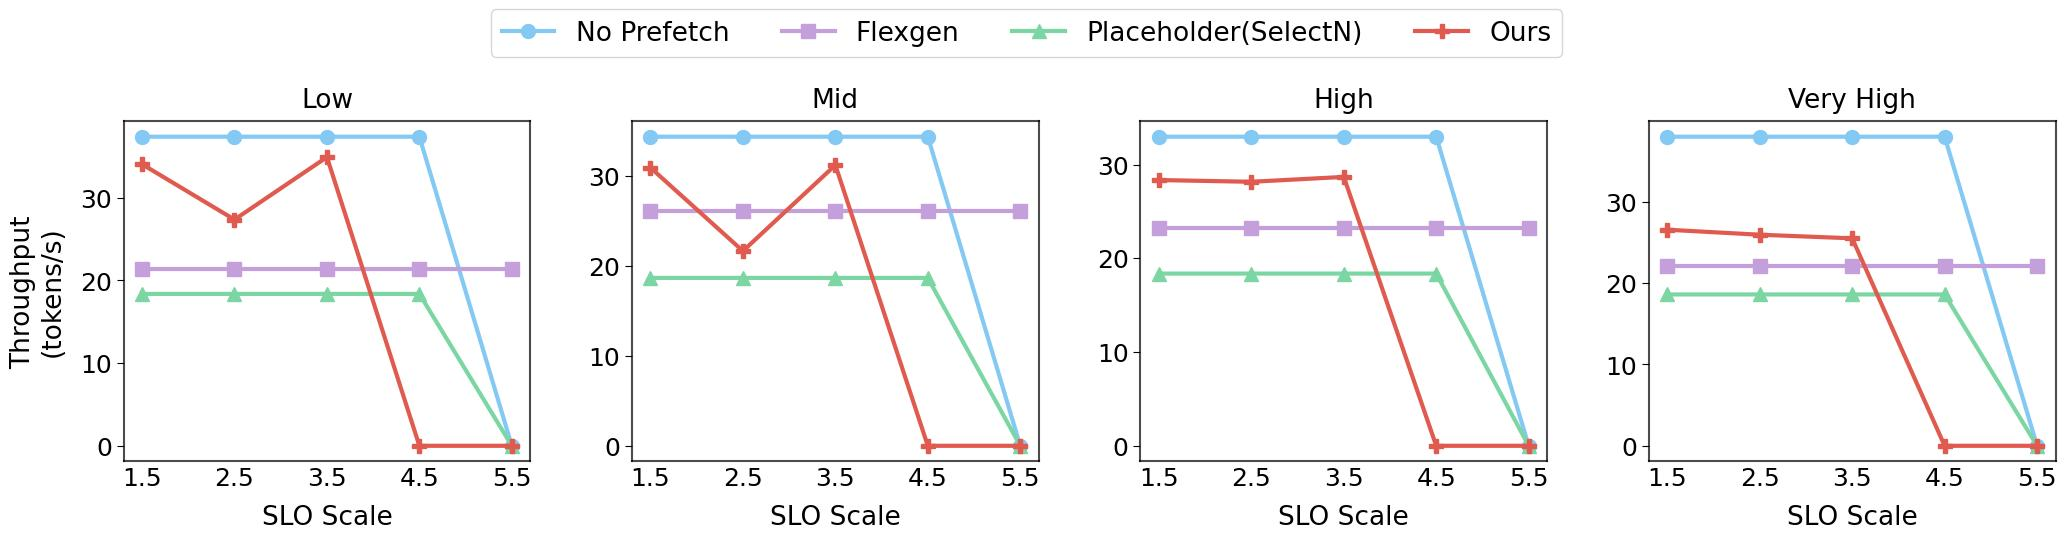
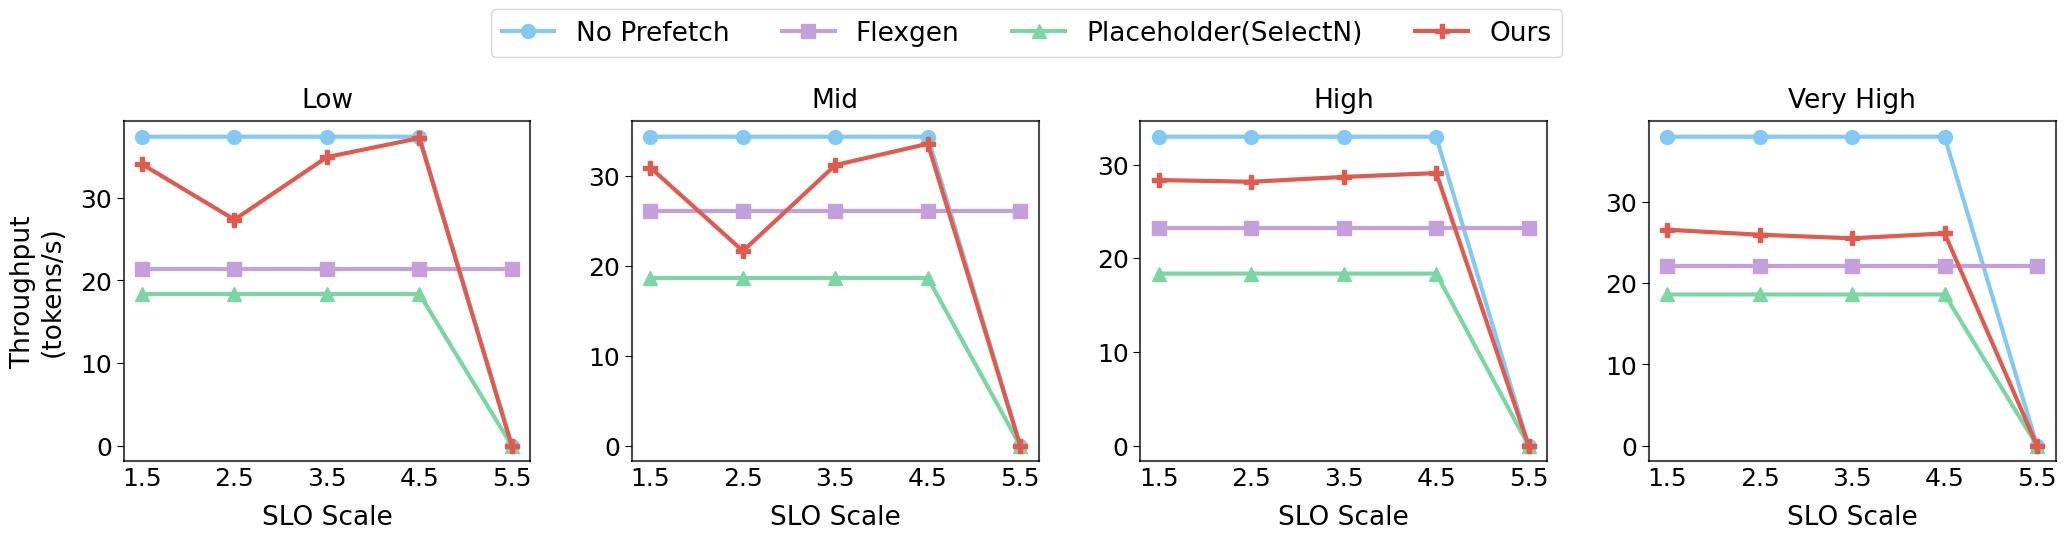
fix merge conflict

diff --git a/benchmark/data_analysis/draw_paper_graph/tpot_tbt_total_compare_graph.py b/benchmark/data_analysis/draw_paper_graph/tpot_tbt_total_compare_graph.py
@@ -10,25 +10,34 @@ trace_list   = ["both_static", "batch_dyn", "token_dyn", "both_dyn"]
 trace_labels = ["(a) Both Static", "(b) Batch dynamic", "(c) Token dynamic", "(d) Both dynamic"]
 
 method_list   = ["NoPrefetch", "Flexgen", "SelectN", 
-                #  "Ours"
+                 "Ours"
                  ]
-method_labels = ["No Prefetch", "Flexgen", "Placeholder(SelectN)", 
-                #  "Ours"
+method_labels = ["No Prefetch", "Flexgen", "SelectN", 
+                 "Ours"
                  ]
 
 metric_list   = ["low","mid","high", "veryhigh"]
 metric_labels = ["Low","Mid","High", "Very High"]
 
-slo_scales  = [10, 4.5, 4, 3.5, 3, 2.5, 2, 1.5, 1]
+slo_scales  = [10, 4.5, 3.5, 2.5, 1.5, 1]
 slo_labels  = [str(s) for s in slo_scales]
 
+# colors = [
+#     "#84C8F4",  # Soft Sky Blue
+#     "#C59FDB",  # Pastel Lavender
+#     "#7CD6A4",  # Mint Green
+#     "#63D0C2",  # Aqua Teal
+#     "#E05A4F",  # Coral Red
+# ]
+
 colors = [
-    "#84C8F4",  # Soft Sky Blue
-    "#C59FDB",  # Pastel Lavender
-    "#7CD6A4",  # Mint Green
-    # "#63D0C2",  # Aqua Teal
-    "#E05A4F",  # Coral Red
+    "#4DA6FF",  # Sky Blue
+    "#3CC58F",  # Mint Green
+    "#9F79C1",  # Lavender Purple
+    "#FF8C69"   # Coral Orange
 ]
+
+
 markers = ['o','s','^',
         #    'D',
            'P']